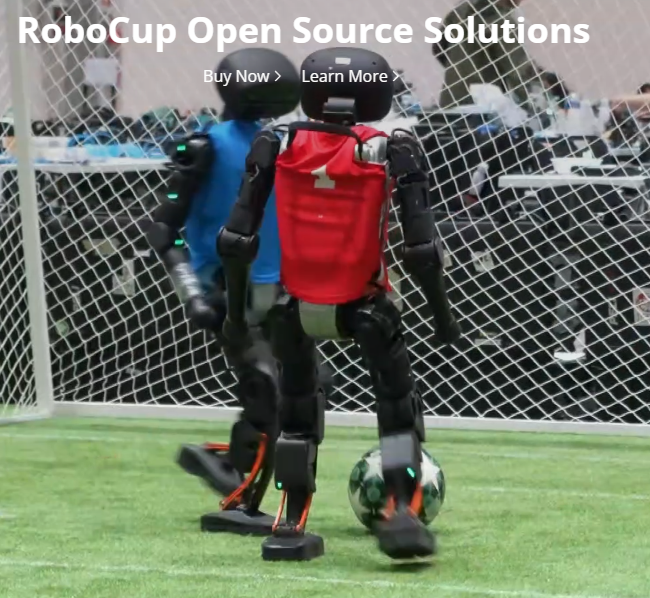
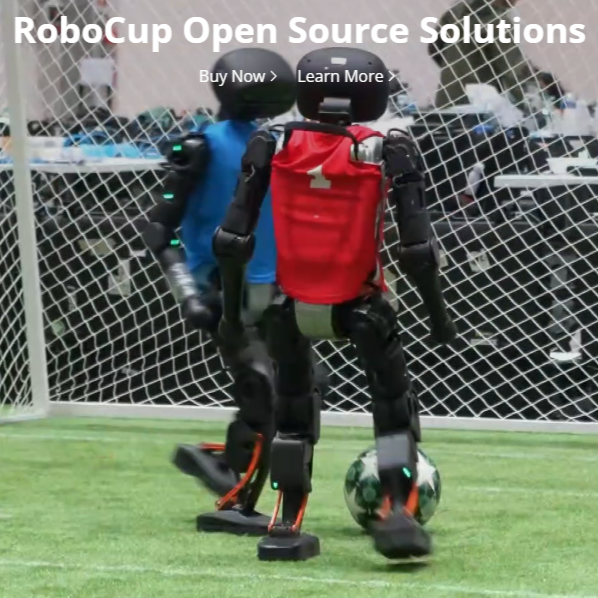
add speaker and demo company

diff --git a/index.html b/index.html
@@ -232,7 +232,7 @@
     }
 
     .demo-grid {
-      grid-template-columns: repeat(2, minmax(0, 260px));
+      grid-template-columns: repeat(3, minmax(0, 260px));
       justify-content: start;
     }
 
@@ -571,14 +571,21 @@
           </div>
 
           <div class="speaker">
-            <img src="pictures/Aude Billard.jpg" alt="Aude Billard headshot" />
+            <img src="pictures/Peter_Stone.png" alt="Peter Stone headshot" />
             <div class="speaker-info">
-              <strong>Aude Billard</strong><br />
+              <strong>Peter Stone</strong><br />
               Professor<br />
-              École Polytechnique Fédérale de Lausanne <br />
-              <a href="https://people.epfl.ch/aude.billard" target="_blank">Profile page</a>
+              The University of Texas at Austin
             </div>
-            <div class="presentation"><span class="presentation-title">Next Challenges for Humanoids and Any Robots to Display Human-Like or Beyond Dexterity</span></div>
+            <div class="presentation">
+              <div class="presentation-head">
+                <span class="presentation-title">Outplaying Elite Table Tennis Players with an Autonomous Robot</span>
+                <button class="abstract-toggle" type="button" aria-expanded="false">Presentation abstract</button>
+              </div>
+              <div class="abstract-panel">
+                <p>Artificial intelligence (AI) systems now challenge or surpass human experts in many computer games. Physical and real-time sports such as table tennis, however, remain a major open challenge because of their requirements for fast, precise and adversarial interactions near obstacles and at the edge of human reaction time. This talk presents Ace, to our knowledge the first real-world autonomous system competitive with elite human table tennis players. Ace addresses the challenges of physical real-time interaction through a new, high-speed perception system using event-based vision sensors, and a new control system based on model-free reinforcement learning, as well as state-of-the-art high-speed robot hardware. Evaluated in matches against elite and professional players under official competition rules, Ace achieved several victories and demonstrated consistent returns of high-speed, high-spin shots. These results highlight the potential of physical AI agents to perform complex, real-time interactive tasks, suggesting broader applications in domains requiring fast, precise human-robot interaction.</p>
+              </div>
+            </div>
           </div>
 
           <div class="speaker">
@@ -616,6 +623,17 @@
                 <p>I will also introduce an annealed curriculum that initially uses locomotion-related subtasks to reduce the exploration difficulty of whole-body learning. These auxiliary objectives are gradually annealed away as training progresses, reducing gradient conflicts between locomotion and striking. In addition, I will discuss a prediction-free variant that achieves competitive performance without explicit shuttlecock trajectory prediction, highlighting the potential for more reactive and streamlined dynamic interaction systems. The resulting policy is evaluated in simulation and on a real humanoid, demonstrating dynamic and coordinated whole-body badminton performance.</p>
               </div>
             </div>
+          </div>
+
+          <div class="speaker">
+            <img src="pictures/Aude Billard.jpg" alt="Aude Billard headshot" />
+            <div class="speaker-info">
+              <strong>Aude Billard</strong><br />
+              Professor<br />
+              École Polytechnique Fédérale de Lausanne <br />
+              <a href="https://people.epfl.ch/aude.billard" target="_blank">Profile page</a>
+            </div>
+            <div class="presentation"><span class="presentation-title">Next Challenges for Humanoids and Any Robots to Display Human-Like or Beyond Dexterity</span></div>
           </div>
 
           <div class="speaker">
@@ -791,6 +809,13 @@
             <strong>Booster Robotics</strong>
           </a><br />
           Demo: Dancing / Football
+        </div>
+        <div class="company">
+          <a href="https://www.unitree.com/" target="_blank" rel="noopener noreferrer">
+            <img src="pictures/unitree.png" alt="Unitree Robotics" />
+            <strong>Unitree Robotics</strong>
+          </a><br />
+          Demo: Sports
         </div>
       </div>
     </div>